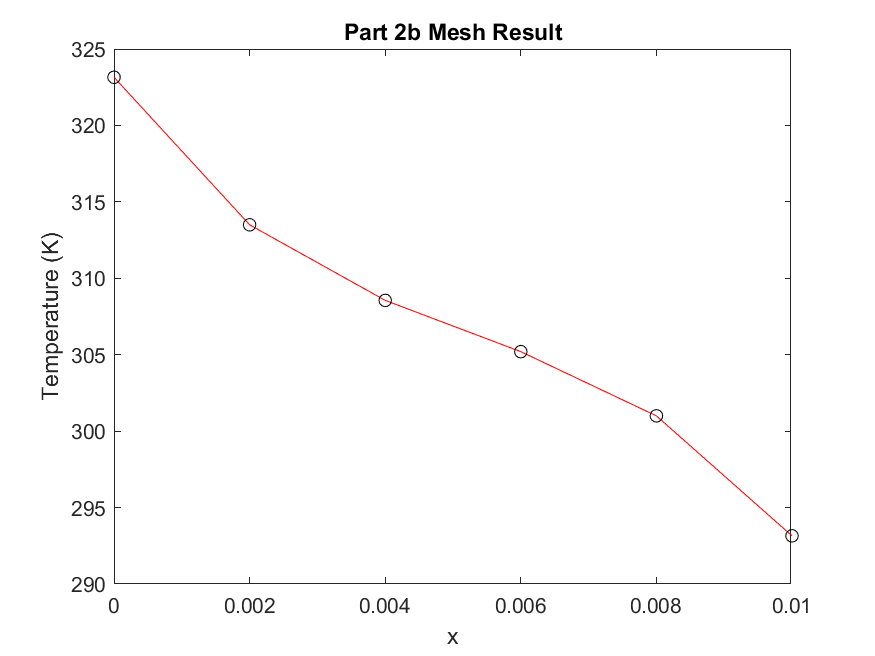
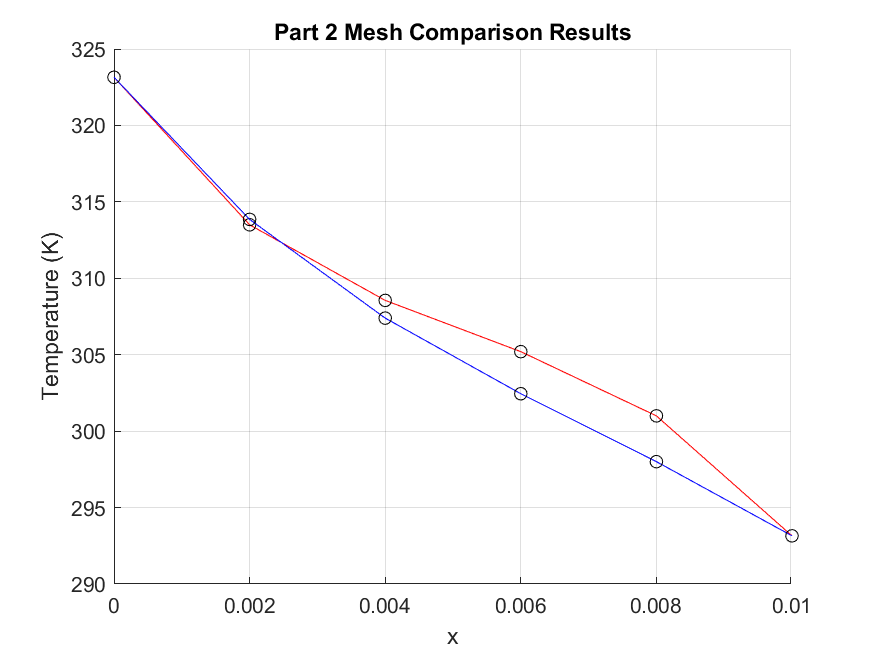
Implement Initial multi-plot support

diff --git a/plotSolutionDefaults.m b/plotSolutionDefaults.m
@@ -7,24 +7,47 @@ end
 
 %Set plot option for nodes
 if (isfield(opts,'nodePlot'))
-    nodePlot=opts.nodePlot;
-    if (~isfield(opts.nodePlot,'LineStyle'))
-    nodePlot.LineStyle='-';
-    end
-    if (~isfield(opts.nodePlot,'Color'))
-    nodePlot.Color='r';
-    end
-    if (~isfield(opts.nodePlot,'Marker'))
-    nodePlot.Marker='o';
-    end
-    if (~isfield(opts.nodePlot,'MarkerEdgeColor'))
-    nodePlot.MarkerEdgeColor='k';  
+    for j=1:size(Problems,2)
+        nodePlot{j}=opts.nodePlot;
+        if (~isfield(opts.nodePlot,'LineStyle'))
+            nodePlot{j}.LineStyle='-';
+            elseif (isfield(opts.nodePlot,'LineStyle') && size(opts.nodePlot.LineStyle,2)>1)
+            nodePlot{j}.LineStyle=opts.nodePlot.LineStyle{j};
+        else
+            nodePlot{j}.LineStyle=opts.nodePlot.LineStyle;
+        end
+        
+        if (~isfield(opts.nodePlot,'Color'))
+            nodePlot{j}.Color='r';
+        elseif (isfield(opts.nodePlot,'Color') && size(opts.nodePlot.Color,2)>1)
+            nodePlot{j}.Color=opts.nodePlot.Color{j};
+        else
+            nodePlot{j}.Color=opts.nodePlot.Color;
+        end
+        
+        if (~isfield(opts.nodePlot,'Marker'))
+            nodePlot{j}.Marker='o';
+            elseif (isfield(opts.nodePlot,'Marker') && size(opts.nodePlot.Marker,2)>1)
+            nodePlot{j}.Marker=opts.nodePlot.Marker{j};
+        else
+            nodePlot{j}.Marker=opts.nodePlot.Marker;
+        end
+        
+        if (~isfield(opts.nodePlot,'MarkerEdgeColor'))
+            nodePlot{j}.MarkerEdgeColor='k';
+            elseif (isfield(opts.nodePlot,'MarkerEdgeColor') && size(opts.nodePlot.MarkerEdgeColor,2)>1)
+            nodePlot{j}.MarkerEdgeColor=opts.nodePlot.MarkerEdgeColor{j};
+        else
+            nodePlot{j}.MarkerEdgeColor=opts.nodePlot.MarkerEdgeColor;
+        end
     end
 else
-    nodePlot.LineStyle='-';
-    nodePlot.Color='r';
-    nodePlot.Marker='o';
-    nodePlot.MarkerEdgeColor='k';    
+    for j=1:size(Problems,2)
+    nodePlot(j).LineStyle='-';
+    nodePlot(j).Color='r';
+    nodePlot(j).Marker='o';
+    nodePlot(j).MarkerEdgeColor='k'; 
+    end
 end
 
 %Set plot title

diff --git a/plotSolution.m b/plotSolution.m
@@ -1,14 +1,27 @@
-function [f] = plotSolution(Problem,varargin)
+function [f] = plotSolution(Problems,varargin)
 %PLOTSOLUTION Given a problem, plots the mesh results x,c.
 %Returns the figure
 %init empty opts
 opts=[];
 
-if(size(varargin,1)>0)
-%varargins available
-%Number 1 is opts.
-opts=varargin{1};
+if (size(varargin,2)==2)
+        %varargins available
+        %See if number 1 is a func. If not it should be opts.
+        if ischar(varargin(1))
+            opts=varargin{2};
+            extraFcn=varargin{1};
+        else
+            opts=varargin{1};
+            extraFcn=varargin{2};
+        end
+elseif (size(varargin,2)==1)
+        if ischar(varargin(1))
+            extraFcn=varargin{1};
+        else
+            extraFcn=varargin{2};
+        end
 end
+
 
 plotSolutionDefaults; %Sets the defaults for this function and overrides any with user set options.
 
@@ -19,9 +32,14 @@ else
     f = figure('visible','on');
 end
 
-x=Problem.mesh.nvec;
-y=Problem.c';
-p=plot(x,y,nodePlot);
+hold on
+
+for i=1:size(Problems,2)
+x=Problems{i}.mesh.nvec;
+y=Problems{i}.c';
+plot(x,y,nodePlot{i});
+end
+eval(extraFcn);
 title(plotTitle);
 xlabel(xlabel_title);
 ylabel(ylabel_title);

diff --git a/part2.m b/part2.m
@@ -1,9 +1,12 @@
-[c,part2bProblem] = part2b(1,300,5);
+[~,part2bProblem] = part2b(1,300,5);
 %Set Plot Options
-PlotOpts.title='Part 2b Mesh Result';
+PlotOpts=[]; %Clear previous opts.
+PlotOpts.title='Part 2 Mesh Comparison Results';
 PlotOpts.filepath='status/part2b.png';
 PlotOpts.x.label='x';
 PlotOpts.y.label='Temperature (K)';
+PlotOpts.nodePlot.Color={'r','b'};
+extraFcn='grid;';
 close all
-plotSolution(part2bProblem,PlotOpts);
-%[c,part2aProblem] = part2a(1,300,5);
+[~,part2aProblem] = part2a(0.5,300,5);
+plotSolution({part2bProblem,part2aProblem},PlotOpts,extraFcn);
